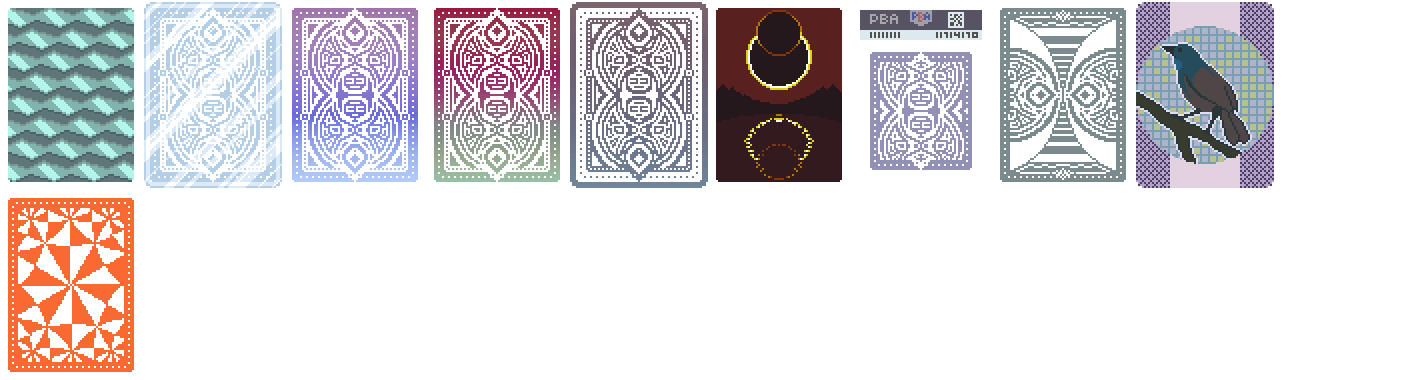
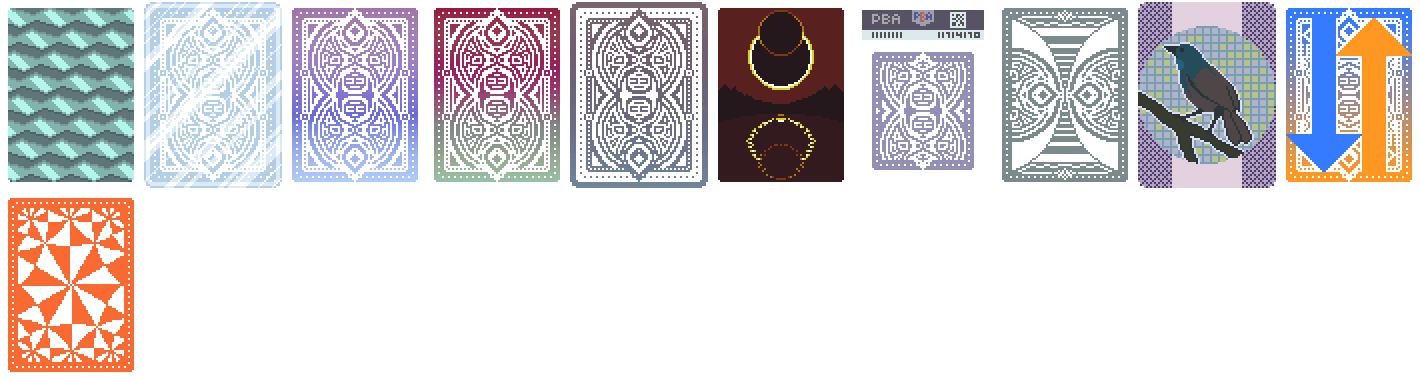
-Added Reverse Strength -Altered Black Knight sound -Fixed negative playing card crash

Changed region(s): [[0.5268, 0.0, 1.0, 0.4921], [0.5268, 0.0289, 0.5577, 0.0579], [0.4958, 0.2316, 0.5268, 0.2605]]

diff --git a/reverse.py b/reverse.py
@@ -1,0 +1,21 @@
+import sys
+
+from fontTools.pens.transformPen import TransformPen
+from fontTools.pens.ttGlyphPen import TTGlyphPen
+from fontTools.ttLib import TTFont
+
+font = TTFont(sys.argv[1])
+glyf = font["glyf"]
+hmtx = font["hmtx"]
+
+for key in glyf.keys():
+    glyph = glyf[key]
+    width, lsb = hmtx[key]
+    cx = width / 2
+    cy = (font["hhea"].ascent + font["hhea"].descent) / 2
+    pen = TTGlyphPen(glyf)
+    transform = TransformPen(pen, (-1, 0, 0, -1, 2 * cx, 2 * cy))
+    glyph.draw(transform, glyf)
+    glyf[key] = pen.glyph()
+
+font.save("assets/fonts/reverse_m6x11.ttf")
